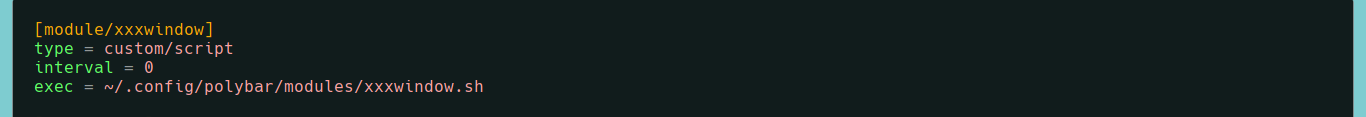
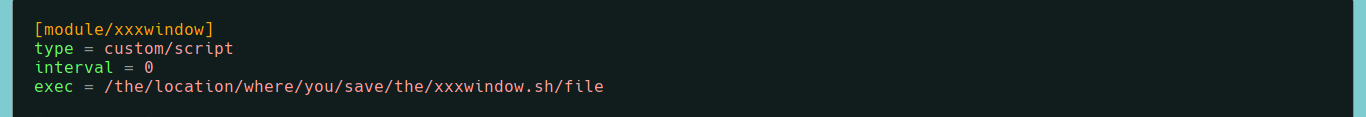
xxxwindow

Changed region(s): [[0.0615, 0.6667, 0.4612, 0.8205]]

diff --git a/README.md b/README.md
@@ -45,7 +45,7 @@ To add the xxxwindow module to the Polybar, simply add the following code to the
     <img src="/assets/installationCommandLines.png"
 </p>
 
-In the **exec** section, it is necessary to indicate the location of the file [xxxwindow.sh](https://github.com/MateoNitro550/xxxwindowPolybarModule/blob/main/xxxwindow.sh) file.
+In the **exec** section, it is necessary to indicate the location of the [xxxwindow.sh](https://github.com/MateoNitro550/xxxwindowPolybarModule/blob/main/xxxwindow.sh) file.
 
 ### Configuration
 
